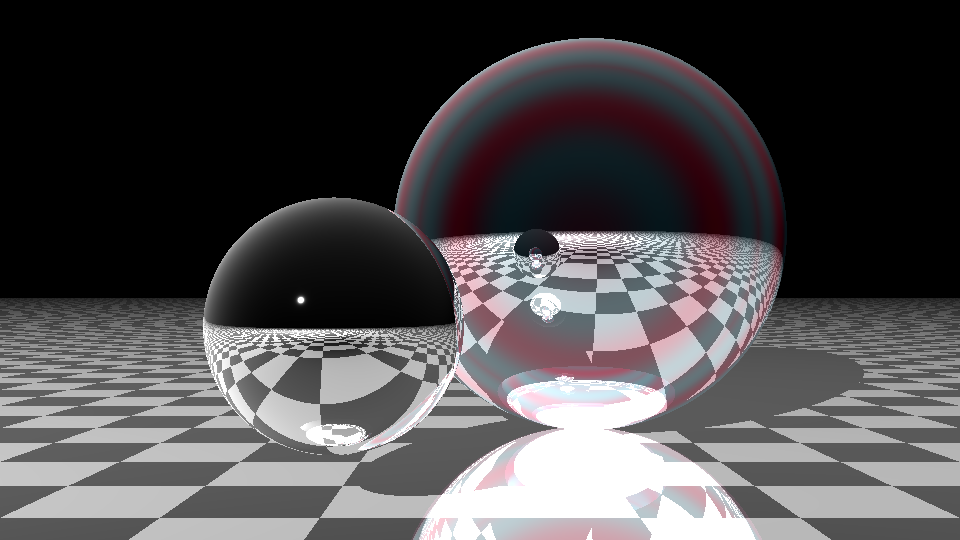
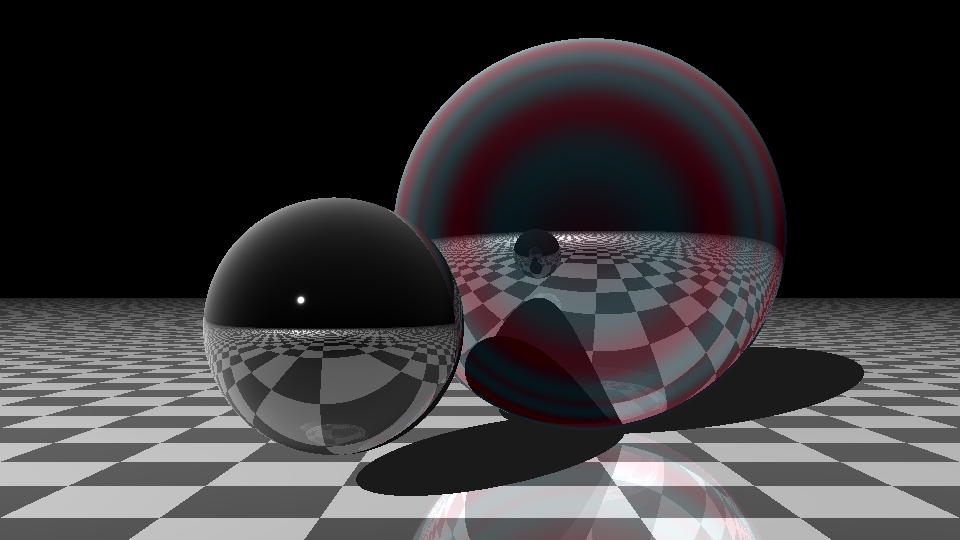
feat: add is in light

Changed region(s): [[0.1875, 0.4148, 0.9062, 1.0], [0.4062, 0.3852, 0.4375, 0.4444]]

diff --git a/ray_tracer/infrastructure/numpy/shader.py b/ray_tracer/infrastructure/numpy/shader.py
@@ -103,7 +103,7 @@ class NumpyShader(Shader):
             direction_to_ray_origin,
         )
 
-        color += specular + reflection
+        color += (specular + reflection * 0.5) * is_in_light
 
         # color += reflection * self.reflection_gain
 
